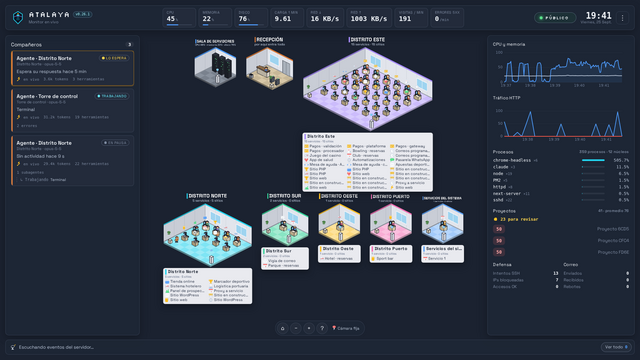
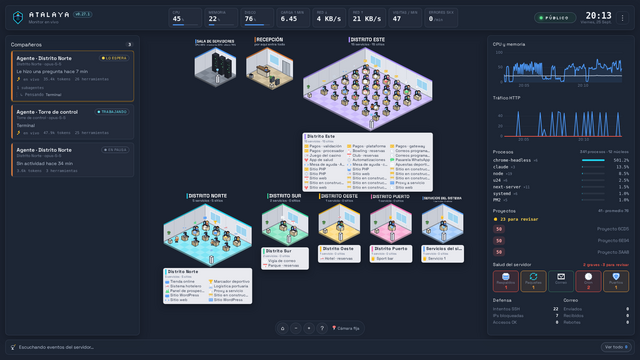
Kit al dia con Atalaya 0.28.0

diff --git a/web/js/drawer.js b/web/js/drawer.js
@@ -67,6 +67,13 @@ export class Drawer {
         this.load();
         return;
       }
+      const up = e.target.closest('[data-audit-updates]');
+      if (up) {
+        up.disabled = true;
+        const r = await fetch('/api/audit/updates', { method: 'POST', headers: { 'Content-Type': 'application/json', 'X-Atalaya': '1' }, body: '{}' }).then(x => x.json()).catch(() => ({}));
+        if (r.error) { up.insertAdjacentHTML('afterend', `<span class="dmuted"> ${esc(r.error)}</span>`); up.disabled = false; } else { up.textContent = 'Revisando…'; setTimeout(() => this.load(), 12000); }
+        return;
+      }
       const au = e.target.closest('[data-audit-db]');
       if (au) {
         au.disabled = true;
@@ -114,14 +121,14 @@ export class Drawer {
       if (r.status === 401) { location.href = '/login'; return; }
       d = r.ok ? await r.json() : null;
       if (d) { withFavicons([d]); withFavicons(d.apps); withFavicons(d.sites); } // favicons reales (solo llegan en privado)
-    } catch { return; }
+    } catch (e) { console.error('[detalle]', e); if (kind === this.kind && id === this.id) this.body.innerHTML = '<p class="dmuted">No se pudo cargar el detalle. Se reintenta solo en unos segundos.</p>'; return; }
     if (kind !== this.kind || id !== this.id) return; // ya se abrio otra cosa
     if (!d) {
       clearInterval(this.timer);
       this.body.innerHTML = '<p class="dmuted">Este elemento ya no existe (la sesión terminó o el servicio se retiró).</p>';
       return;
     }
-    this.render(d);
+    try { this.render(d); } catch (e) { console.error('[detalle]', kind, e); this.body.innerHTML = '<p class="dmuted">No se pudo mostrar este detalle.</p>'; }
   }
 
   // cabecera con icono pixel; el canvas solo se regenera si cambia
@@ -311,6 +318,7 @@ export class Drawer {
       case 'databases': return this.renderDatabases(d);
       case 'database': return this.renderDatabase(d);
       case 'projects': return this.renderProjects(d);
+      case 'audit': return this.renderAudit(d);
       case 'project': return this.renderProject(d);
     }
   }
@@ -528,6 +536,7 @@ export class Drawer {
         ${stat('Red ↓ / ↑', `${fmtBytes(s.net.rx)}/s · ${fmtBytes(s.net.tx)}/s`)}${stat('Encendido hace', dur(s.uptime))}${stat('Procesos', s.procs)}
         ${stat('Servicios', `${d.apps}${d.appsDown ? ` (${d.appsDown} con problemas)` : ''}`, d.appsDown ? 'bad' : '')}${stat('Agentes Claude', d.sessions)}
       </div>
+      <section class="dsec"><div class="row dmrow"><span class="grow">${px('shield')} <b>Salud del servidor</b>: respaldos, actualizaciones, cola de correo, cron y puertos.</span><button class="btn small" data-go="audit:all">Ver revisiones</button></div></section>
       ${d.connectors && d.connectors.length ? `<section class="dsec"><h4>Conectores de nube</h4><ul class="dlist">${d.connectors.map(c => `<li>
         <span class="pill ${c.ok ? 'ok' : 'bad'}">${c.ok ? 'conectado' : 'error'}</span><span class="grow"><b>${esc(c.label)}</b> · ${c.projects} proyecto${c.projects === 1 ? '' : 's'}${c.error ? `<br><span class="dmuted">${esc(c.error)}</span>` : ''}</span>
         <span class="dmuted">${c.lastOk ? 'leído hace ' + ago(Date.now() - c.lastOk) : 'sin lectura'}${c.type === 'vercel' ? (c.drainAt ? ` · visitas hace ${ago(Date.now() - c.drainAt)}` : ' · sin Drain') : ''}</span></li>`).join('')}</ul></section>` : ''}
@@ -556,6 +565,30 @@ export class Drawer {
     const rec = d.recent.length ? d.recent.map(e => `<li><time>${hhmm(e.t)}</time><span class="grow">${DIR[e.dir]}</span></li>`).join('') : '<li class="dmuted">Sin movimiento de correo desde que Atalaya arrancó.</li>';
     this.content(`<div class="dstats">${stat('Enviados', fmtNum(d.counts.out))}${stat('Recibidos', fmtNum(d.counts.in))}${stat('Rebotes', fmtNum(d.counts.bounce), d.counts.bounce ? 'warn' : '')}</div>
       <section class="dsec"><h4>Últimos movimientos</h4><ul class="dlist">${rec}</ul></section>`);
+  }
+
+  // salud del servidor: una seccion por revision, con sus cifras y cada hallazgo con su "como arreglarlo"
+  renderAudit(d) {
+    const cv = document.createElement('div'); cv.className = 'dswatch'; cv.innerHTML = px('shield', 'big');
+    const all = d.sections.flatMap(s => s.findings);
+    const bad = all.filter(f => f.sev === 'bad').length, warn = all.filter(f => f.sev === 'warn').length;
+    this.setHead('audit:all', cv, 'Salud del servidor', `Revisado hace ${ago(Date.now() - d.t)} · solo lectura`,
+      `<span class="pill ${bad ? 'bad' : warn ? 'warn' : 'ok'}">${bad ? bad + ' grave' + (bad === 1 ? '' : 's') : warn ? warn + ' para revisar' : 'en orden'}</span>`);
+    const ST = { ok: ['ok', 'En orden'], warn: ['warn', 'Para revisar'], bad: ['bad', 'Grave'], unknown: ['off', 'Sin revisar'] };
+    const sec = s => {
+      const st = ST[s.status] || ST.unknown;
+      const finds = d.priv ? s.findings.map(f => `<div class="afind ${f.sev}"><h5>${esc(f.title)}</h5><p>${esc(f.detail || '')}</p>${f.fix ? `<p class="fix">${esc(f.fix)}</p>` : ''}
+          ${f.rows && f.rows.length ? `<ul>${f.rows.map(r => `<li>${r.port ? `puerto <b>${r.port}</b> ${esc(r.proc || '')}` : `<b>${esc(r.user || '')}</b> <span class="dmuted">${esc(r.schedule || '')}</span> <code>${esc(r.command || '')}</code>`}</li>`).join('')}</ul>` : ''}
+          ${f.names && f.names.length ? `<p class="dmuted">${esc(f.names.slice(0, 20).join(', '))}${f.names.length > 20 ? '…' : ''}</p>` : ''}</div>`).join('')
+        : (s.findings.length ? `<p class="dmuted">${s.findings.length} hallazgo${s.findings.length === 1 ? '' : 's'}. Active el modo privado para verlos con su «cómo arreglarlo».</p>` : '');
+      const btn = s.canCheck ? `<button class="btn small" data-audit-updates="1" ${d.running ? 'disabled' : ''}>${d.running ? 'Revisando…' : 'Revisar actualizaciones'}</button>` : '';
+      return `<section class="dsec"><h4>${px(s.icon)} ${esc(s.title)} <span class="pill ${st[0]}">${st[1]}</span></h4>
+        <div class="dstats">${s.items.map(i => stat(i.label, `${esc(i.value)}${i.sub ? `<br><small class="dmuted">${esc(i.sub)}</small>` : ''}`)).join('')}</div>
+        ${finds || (s.status === 'ok' ? '<p class="dmuted">Nada para revisar.</p>' : '')}${btn ? `<div class="row dmrow">${btn}</div>` : ''}</section>`;
+    };
+    // primero lo grave
+    const order = d.sections.slice().sort((a, b) => ({ bad: 0, warn: 1, unknown: 2, ok: 3 }[a.status] - { bad: 0, warn: 1, unknown: 2, ok: 3 }[b.status]));
+    this.content(order.map(sec).join('') + '<p class="hint">Atalaya solo mira: no cambia nada. Estas revisiones se repiten cada 15 minutos; las actualizaciones, solo cuando usted lo pide.</p>');
   }
 
   renderProjects(d) {

diff --git a/web/js/hud.js b/web/js/hud.js
@@ -92,9 +92,28 @@ function fitRight() {
   const charts = [...r.querySelectorAll('.chart')];
   charts.forEach(c => { c.style.height = ''; });
   const over = r.scrollHeight - r.clientHeight;
+  // limite de filas por regla de estilo (sobrevive a los redibujos de cada estado)
+  let st = document.getElementById('fitRightStyle');
+  if (!st) { st = document.createElement('style'); st.id = 'fitRightStyle'; document.head.appendChild(st); }
+  st.textContent = '';
   if (over > 0 && charts.length) {
     const min = parseFloat(getComputedStyle(document.documentElement).fontSize) * 3;
     charts.forEach(c => { c.style.height = Math.max(min, c.clientHeight - Math.ceil(over / charts.length)) + 'px'; });
+  }
+  // si aun no cabe: menos procesos (minimo 3) y menos proyectos (minimo 1)
+  const vis = sel => [...r.querySelectorAll(sel)].filter(x => getComputedStyle(x).display !== 'none').length;
+  let np = vis('#procs > *'), nj = vis('#proj .projrow');
+  while (r.scrollHeight > r.clientHeight + 1 && (np > 3 || nj > 1)) {
+    if (np > 3 && np >= nj + 2) np--; else if (nj > 1) nj--; else np--;
+    st.textContent = `#right #procs > :nth-child(n+${np + 1}), #right #proj .projrow:nth-of-type(n+${nj + 1}) { display: none !important; }`;
+  }
+  // ultimo recurso: achicar las secciones de texto (no las graficas: su cursor se descalibra con zoom), hasta 80 %
+  const over2 = r.scrollHeight - r.clientHeight;
+  if (over2 > 1) {
+    const txt = [...r.children].filter(x => !x.querySelector('.chart'));
+    const h = txt.reduce((n, x) => n + x.offsetHeight, 0);
+    const k = Math.max(0.8, (h - over2 - 2) / h).toFixed(3);
+    st.textContent += ` #right > :not(:has(.chart)) { zoom: ${k}; }`;
   }
   if (chCpu) { const e1 = $('chCpu'), e2 = $('chReq'); chCpu.setSize({ width: e1.clientWidth, height: e1.clientHeight }); chReq.setSize({ width: e2.clientWidth, height: e2.clientHeight }); }
 }
@@ -172,7 +191,19 @@ function renderProcs(top, system) {
     <span class="b"><i style="width:${Math.min(100, p.cpu / max * 100)}%"></i></span><span class="c">${p.cpu.toFixed(1)}%</span></div>`).join('');
   $('procCount').textContent = system ? `${system.procs} procesos · ${system.cores} núcleos` : '';
 }
+// salud del servidor: un chip por revision (respaldos, actualizaciones, correo, cron, puertos)
+function renderHealth(list) {
+  const el = $('health'); if (!el) return;
+  if (!list || !list.length) return;
+  const LBL = { ok: 'en orden', warn: 'para revisar', bad: 'grave', unknown: 'sin revisar' };
+  const SHORT = { backups: 'Respaldos', updates: 'Paquetes', mail: 'Correo', cron: 'Cron', ports: 'Puertos' };
+  el.innerHTML = list.map(h => `<span class="hchip ${h.status}" title="${esc(h.title)}: ${LBL[h.status] || h.status}">${px(h.icon)}<i>${esc(SHORT[h.id] || h.title)}</i><b>${h.bad + h.warn || (h.status === 'unknown' ? '?' : '')}</b></span>`).join('');
+  const bad = list.reduce((n, h) => n + h.bad, 0), warn = list.reduce((n, h) => n + h.warn, 0);
+  $('healthSub').textContent = bad ? `${bad} grave${bad === 1 ? '' : 's'}${warn ? ` · ${warn} para revisar` : ''}` : warn ? `${warn} para revisar` : 'en orden';
+  $('healthSub').className = 'sub ' + (bad ? 'bad' : warn ? 'warn' : 'ok');
+}
 function renderMini(state) {
+  renderHealth(state.health);
   const s = state.security, m = state.mail;
   $('sec').innerHTML = `<div><span>Intentos SSH</span><b>${fmtNum(s.failed)}</b></div><div><span>IPs bloqueadas</span><b>${fmtNum(s.blocked)}</b></div><div><span>Accesos OK</span><b>${fmtNum(s.logins)}</b></div>`;
   $('mail').innerHTML = `<div><span>Enviados</span><b>${fmtNum(m.out)}</b></div><div><span>Recibidos</span><b>${fmtNum(m.in)}</b></div><div><span>Rebotes</span><b>${fmtNum(m.bounce)}</b></div>`;
@@ -271,7 +302,7 @@ export function renderState(st) {
   renderAgents(st.sessions, st.accounts, st.priv);
   renderProcs(st.top, sys);
   renderMini(st);
-  const r = $('right'); if (r && r.scrollHeight > r.clientHeight + 2) fitRightSoon();
+  const r = $('right'); if (r && r.scrollHeight > r.clientHeight + 2) fitRightSoon(); // si algo crecio
 }
 
 export function resetAgents() { for (const el of cards.values()) el.remove(); cards.clear(); }

diff --git a/web/css/app.css b/web/css/app.css
@@ -458,3 +458,24 @@ html body.compact .w3-item { font-size: .68rem; }
   html body.compact .drawer { right: var(--rail-w) !important; max-height: 92dvh !important; }
 }
 html body.compact #menu { z-index: 30 !important; position: fixed !important; top: calc(var(--top-h) + .3rem) !important; right: .5rem !important; left: auto !important; max-height: calc(100dvh - var(--top-h) - var(--tab-h) - 1rem); overflow-y: auto; }
+
+/* salud del servidor: un chip por revision */
+.health { display: grid; grid-template-columns: repeat(5, minmax(0, 1fr)); gap: .35rem; }
+.hchip { display: grid; justify-items: center; gap: .1rem; padding: .35rem .2rem; border-radius: 8px; border: 1px solid var(--line); background: rgba(255, 255, 255, .02); font-size: .66rem; color: var(--ink-3); min-width: 0; }
+.hchip .px { width: 1.3rem; height: 1.3rem; }
+.hchip i { font-style: normal; white-space: nowrap; overflow: hidden; text-overflow: ellipsis; max-width: 100%; }
+.hchip b { font-size: .85rem; line-height: 1; min-height: .85rem; color: var(--ink); }
+.hchip.ok { border-color: color-mix(in srgb, var(--good) 45%, transparent); }
+.hchip.warn { border-color: var(--warn); background: color-mix(in srgb, var(--warn) 10%, transparent); }
+.hchip.warn b { color: var(--warn); }
+.hchip.bad { border-color: var(--bad); background: color-mix(in srgb, var(--bad) 12%, transparent); }
+.hchip.bad b { color: var(--bad); }
+#healthSub.bad { color: var(--bad); } #healthSub.warn { color: var(--warn); } #healthSub.ok { color: var(--good); }
+.afind { padding: .6rem .7rem; border-radius: 10px; border: 1px solid var(--line); border-left: 4px solid var(--warn); margin: .4rem 0; background: rgba(255, 255, 255, .02); }
+.afind.bad { border-left-color: var(--bad); }
+.afind h5 { margin: 0 0 .2rem; font-size: .9rem; }
+.afind p { margin: .15rem 0; font-size: .82rem; color: var(--ink-2); }
+.afind .fix { color: var(--ink); }
+.afind .fix::before { content: 'Cómo arreglarlo: '; font-weight: 700; color: var(--accent); }
+.afind ul { margin: .3rem 0 0; padding-left: 1rem; font-size: .76rem; color: var(--ink-3); }
+.afind code { font-size: .74rem; word-break: break-all; }

diff --git a/web/index.html b/web/index.html
@@ -69,6 +69,10 @@
     <h2><span class="pix">Proyectos</span><span class="sub" id="projSub"></span></h2>
     <div class="mini" id="proj"><span class="dmuted">Conecte GitHub o Vercel para armar el mapa.</span></div>
   </section>
+  <section class="link" data-go="audit:all" data-tip="Salud del servidor|Respaldos, actualizaciones, cola de correo, tareas cron y puertos abiertos, revisados en solo lectura cada 15 minutos.">
+    <h2><span class="pix">Salud del servidor</span><span class="sub" id="healthSub"></span></h2>
+    <div class="health" id="health"><span class="dmuted">Revisando…</span></div>
+  </section>
   <section class="duo">
     <div class="link" data-go="security:all">
       <h2><span class="pix">Defensa</span></h2>

diff --git a/web/themes/castillo/theme.css b/web/themes/castillo/theme.css
@@ -46,7 +46,7 @@ body[data-theme="castillo"] #kpi-mem .bar i { background: #3c7ab5; }
 body[data-theme="castillo"] #kpi-disk .bar i { background: #c98a2b; }
 
 /* el resto de las lecturas debajo, en la misma columna */
-body[data-theme="castillo"] #right { top: 12.6rem; right: 1.2rem; bottom: 1.2rem; width: clamp(270px, 22vw, 560px); gap: .8rem; }
+body[data-theme="castillo"] #right { top: 16.4rem; right: 1.2rem; bottom: 1.2rem; width: clamp(270px, 22vw, 560px); gap: .8rem; }
 
 /* magos (agentes) arriba a la izquierda, bajo el cartel */
 body[data-theme="castillo"] #left { top: 6.8rem; left: 1.2rem; bottom: auto; height: auto; max-height: 38vh; width: clamp(240px, 19vw, 480px); }

diff --git a/web/themes/villa/theme.css b/web/themes/villa/theme.css
@@ -45,7 +45,7 @@ body[data-theme="villa"] #kpi-mem .bar i { background: #3c7ab5; }
 body[data-theme="villa"] #kpi-disk .bar i { background: #c98a2b; }
 
 /* el resto de las lecturas debajo, en la misma columna */
-body[data-theme="villa"] #right { top: 12.6rem; right: 1.2rem; bottom: 1.2rem; width: clamp(270px, 22vw, 560px); gap: .8rem; }
+body[data-theme="villa"] #right { top: 16.4rem; right: 1.2rem; bottom: 1.2rem; width: clamp(270px, 22vw, 560px); gap: .8rem; }
 
 /* magos (agentes) arriba a la izquierda, bajo el cartel */
 body[data-theme="villa"] #left { top: 6.8rem; left: 1.2rem; bottom: auto; height: auto; max-height: 38vh; width: clamp(240px, 19vw, 480px); }

diff --git a/web/js/favicons.js b/web/js/favicons.js
@@ -16,7 +16,8 @@ function load(key) {
 }
 // cambia el icono de cada item por su favicon si ya esta listo (y pide los que faltan)
 export function withFavicons(list) {
-  for (const it of list || []) {
+  if (!Array.isArray(list)) return list; // en algunas fichas 'apps' o 'sites' es una cantidad, no una lista
+  for (const it of list) {
     if (!it || !it.favicon) continue;
     if (favImage(it.favicon)) it.icon = 'fav:' + it.favicon; else load(it.favicon);
   }
